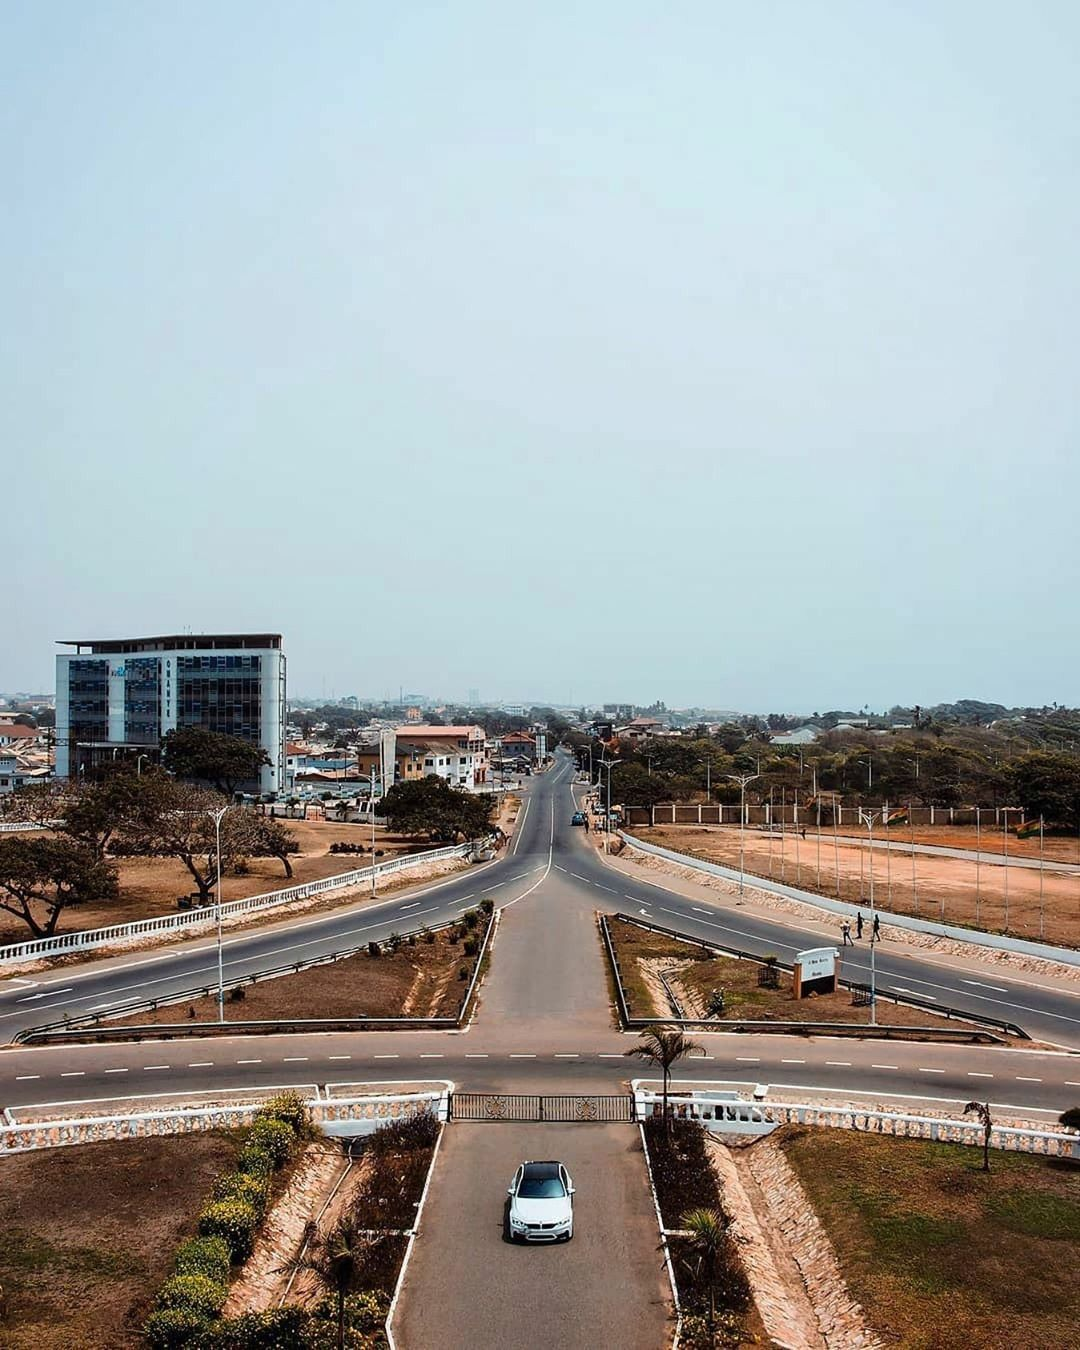
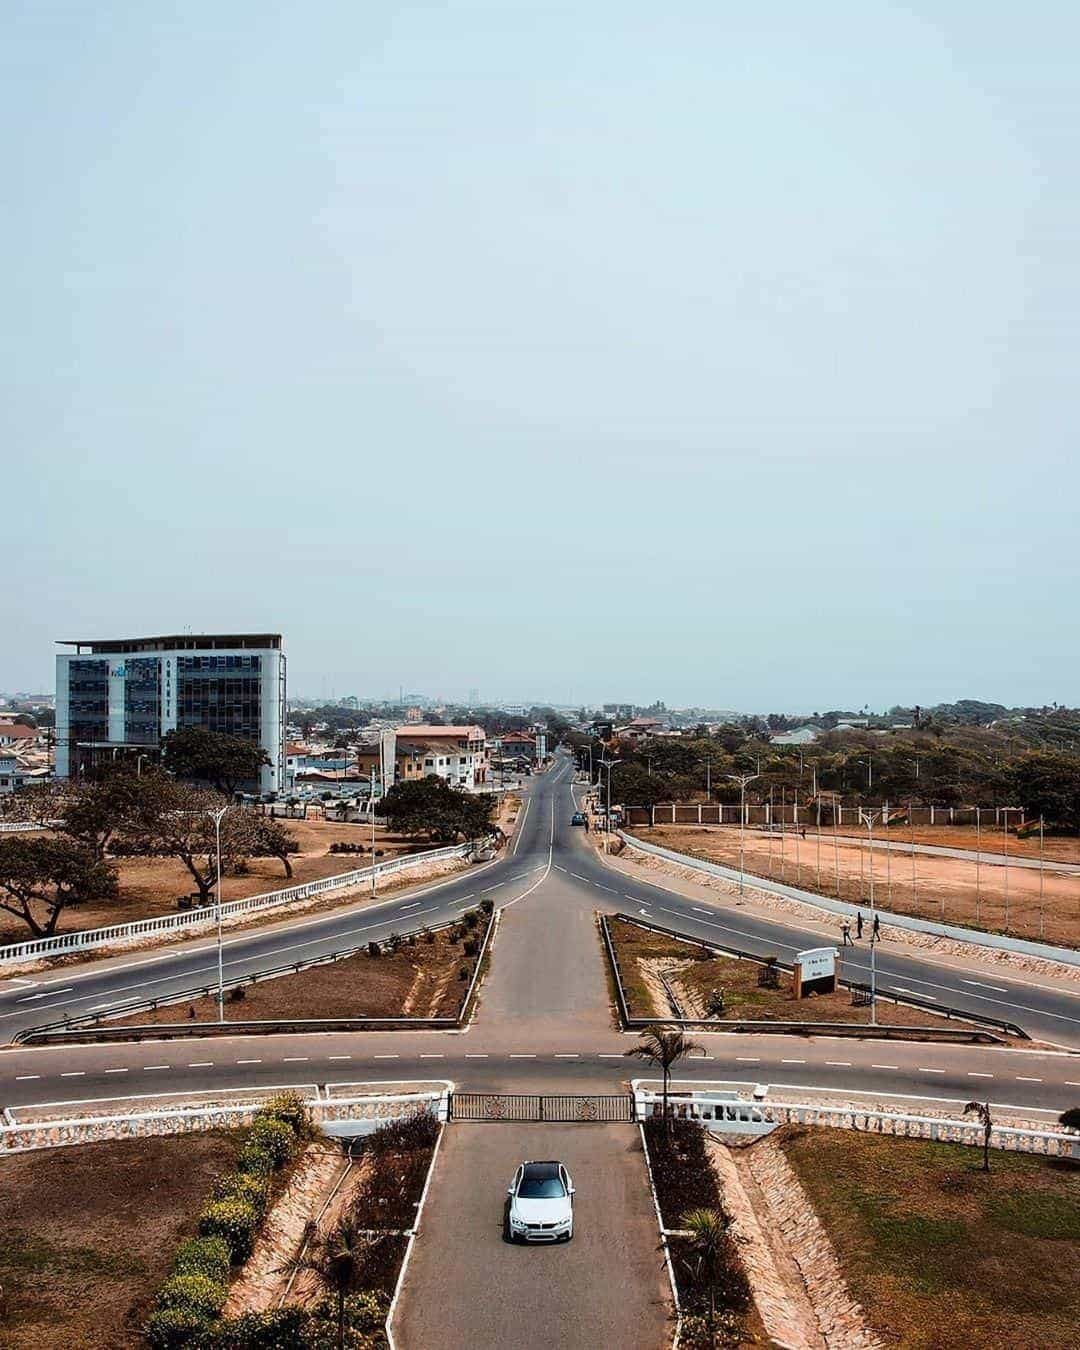
css paragraph updated

diff --git a/styles/styles.css b/styles/styles.css
@@ -25,7 +25,7 @@ img {
 }
 
 p {
-    padding: 10px;
+    padding: 0;
 }
 
 main {
